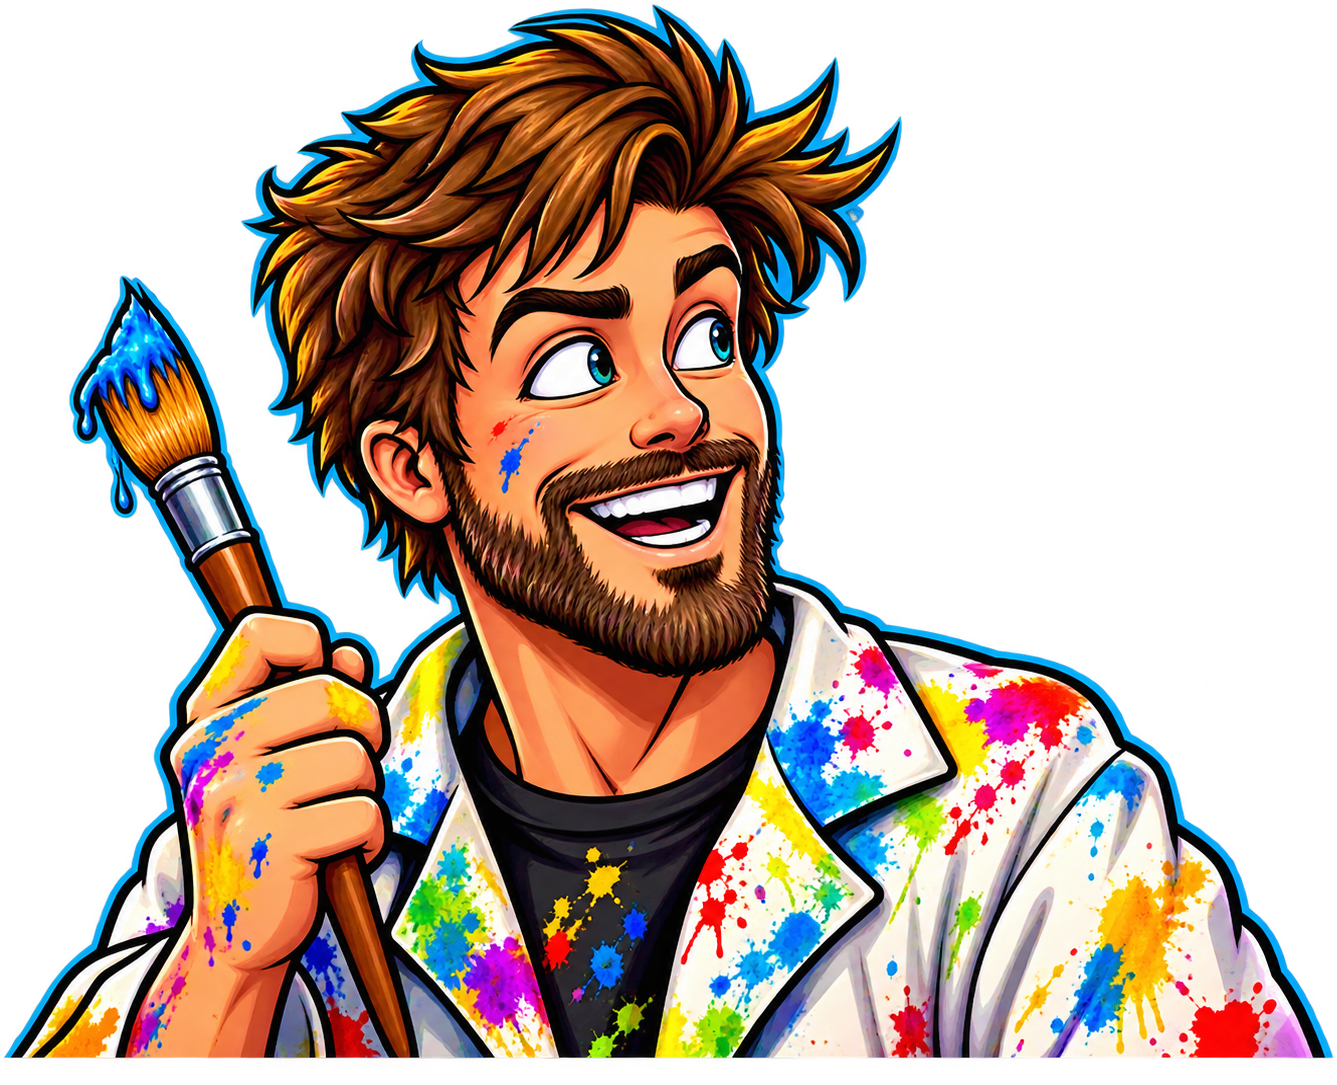
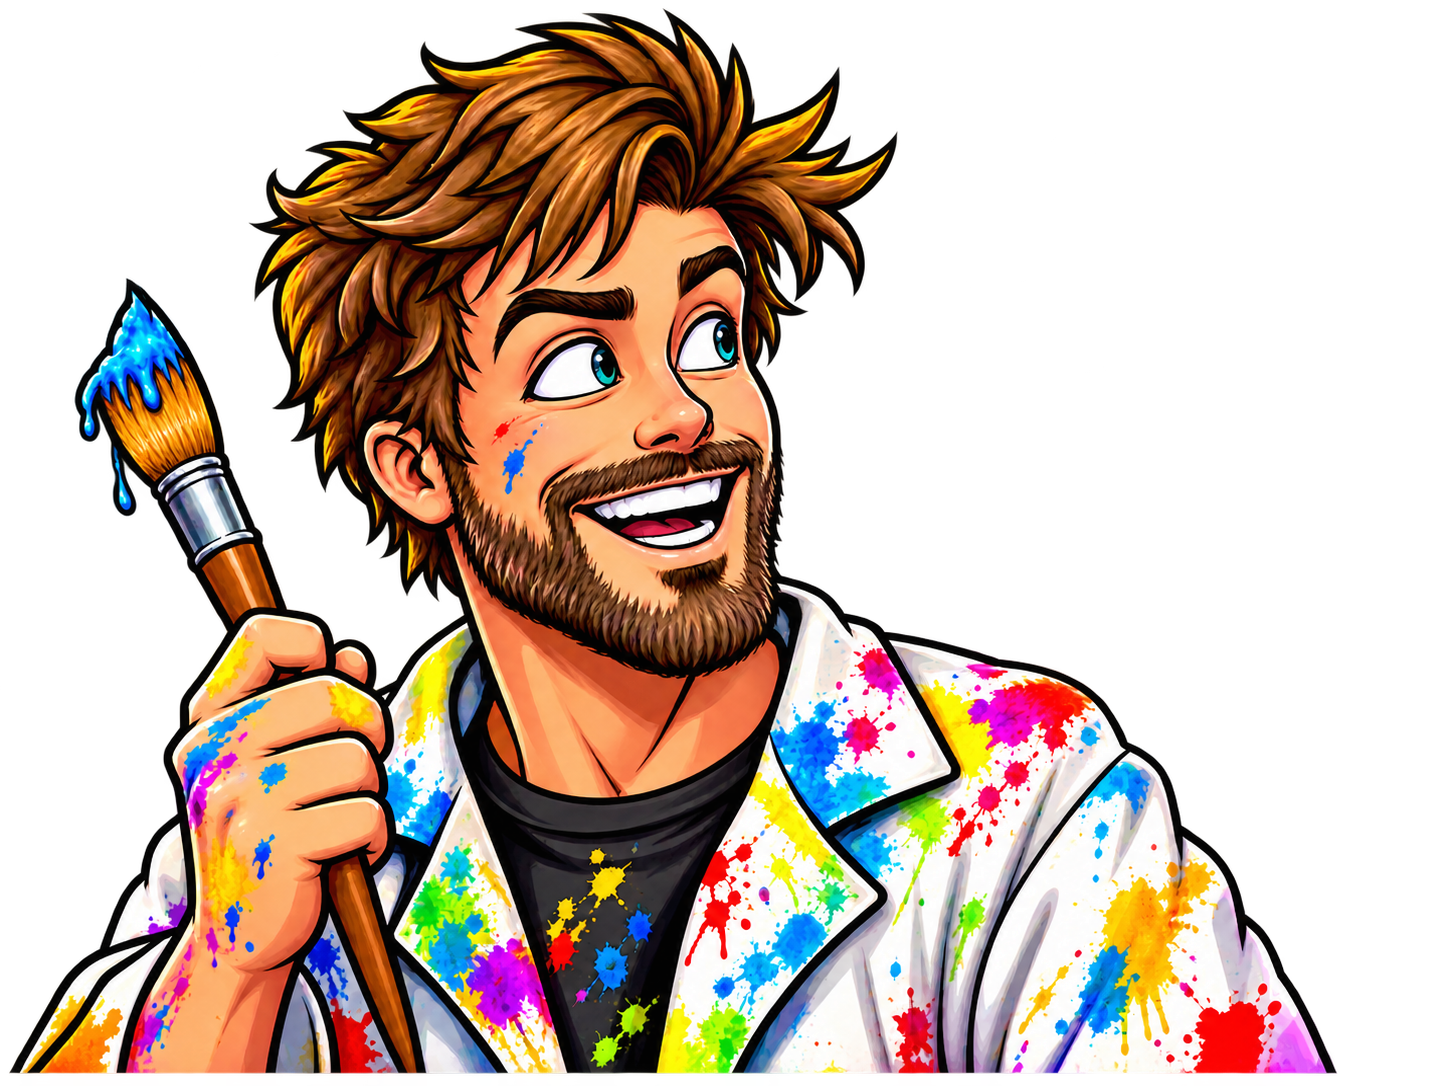
Header: new man, no outlines, same layout at every window size (both apps)
- The new man picture; neither he nor the woman gets the theme-coloured outline
- See-through rows trimmed from the pictures, so both really stand on the line under the header
- Their size and place are locked to the windowed layout and scaled up for maximized and full screen
- They re-stand on the line whenever it moves

Claude-Session: https://claude.ai/code/session_01QUUx8MLU2Dz9qb5VnMmhBk

diff --git a/Instant Easel Pro/main.py b/Instant Easel Pro/main.py
@@ -241,8 +241,8 @@ class InstantEasel(tk.Tk):
         for f, col, sticky in (("mascot-guy.png", 0, "sw"), ("mascot-girl.png", 2, "se")):          # both look in at the logo
             try:
                 im = Image.open(paths.ui("Header", f)).convert("RGBA"); import numpy as _np
-                cols = _np.flatnonzero((_np.asarray(im)[..., 3] > 40).any(0))                      # painted columns only: no see-through margin at the sides
-                if len(cols): im = im.crop((int(cols[0]), 0, int(cols[-1]) + 1, im.height))
+                box = im.getchannel("A").point(lambda v: 255 if v > 40 else 0).getbbox()            # painted area only: no see-through margin at the sides or
+                if box: im = im.crop(box)                                                          # the bottom, so the feet really touch the line
                 self.mascot_src[col] = im
                 lbl = tk.Label(self.frame, bg=top["bg"], bd=0, padx=0, pady=0, highlightthickness=0)   # placed (see _size_mascots): standing on the border below
                 self.mascot_lbl[col] = lbl
@@ -250,6 +250,7 @@ class InstantEasel(tk.Tk):
             except Exception: pass
         self.after_idle(self._size_mascots); T.on_change(lambda: self.mascot_src and self.after_idle(self._size_mascots))   # outline follows the theme colour
         self.frame.bind("<Configure>", lambda e: T.defer(self, "header", 80, self._paint_header), add="+")   # the header picture follows the window size
+        self.after_idle(lambda: self.body.bind("<Configure>", lambda e: T.defer(self, "mascots", 60, self._size_mascots), add="+"))   # the line under the header moved: stand on it again
 
         built = {"Image Scraper": ScraperPage, **LA.page_classes(), **IP.page_classes(), **WP.page_classes(), "Theme": ThemePage, "Draw": draw_studio.DrawStudio,
                  "Light": LightPage, "Color": ColorPage, "Effects": EffectsPage, "Filters": FiltersPage, "Transform": TransformPage, "History": HistoryPage, "About": AboutPage,
@@ -291,16 +292,24 @@ class InstantEasel(tk.Tk):
         if h < 40: return self.after(50, self._size_mascots)
         self._mph = {}
         mid = max(self.tabs.winfo_reqwidth(), self.top.grid_bbox(1, 0, 1, 1)[2])            # the middle column: the logo or the tab row, whichever is wider
-        room = (self.top.winfo_width() - mid) // 2 - int(round(18 * T.Z)) - 2               # the space beside the logo and tab row
+        # locked to the windowed layout: a wider window (full screen, maximized) adds width that the header picture fills, but the guy
+        # and girl keep the places they have in the window, scaled up, rather than sliding out to the new edges
+        fw, fh = fixed_window_size(self.winfo_screenwidth(), self.winfo_screenheight())
+        extra = max(0, int(self.view_cv.winfo_width() - T.Z * fw / target_zoom(fw, fh)))
+        lock_w = self.top.winfo_width() - extra; x0 = self.top.winfo_x() + extra // 2
+        room = (lock_w - mid) // 2 - int(round(18 * T.Z)) - 2                              # the space beside the logo and tab row
         for col, src in self.mascot_src.items():
             k = h / src.height
             if room > 40 and src.width * k > room: k = room / src.width                     # too wide for its space: smaller, never cut off
-            im = _outlined(src.resize((max(1, int(src.width * k)), max(1, int(src.height * k))), Image.LANCZOS), T.PALETTE["border"])
+            self._mdz = getattr(self, "_mdz", {})
+            if abs(self.winfo_width() - fw) <= 4 and abs(self.winfo_height() - fh) <= 4: self._mdz[col] = src.height * k / T.Z   # the windowed size (design pixels)...
+            elif col in self._mdz: k = min(h, self._mdz[col] * T.Z) / src.height           # ...kept, scaled, at every other window size
+            im = src.resize((max(1, int(src.width * k)), max(1, int(src.height * k))), Image.LANCZOS)
             over = int(self.frame.cget("highlightthickness")) - (body_y - im.height)   # rows that would reach the top border or above it
             if over > 0: im = im.crop((0, over, im.width, im.height))            # cut those off, so nothing shows on or above the top line
             self._mph[col] = ImageTk.PhotoImage(im); self.mascot_lbl[col].configure(image=self._mph[col], width=0, height=0)   # 0 = the picture's own size
             self._mpil = getattr(self, "_mpil", {}); self._mpil[col] = im
-            x = self.top.winfo_x() if col == 0 else self.top.winfo_x() + self.top.winfo_width() - im.width   # outer edge in line with the page's border
+            x = x0 if col == 0 else x0 + lock_w - im.width                          # outer edge where the page's border is in the windowed layout
             self.mascot_lbl[col].place(x=x, y=body_y - im.height, bordermode="outside")      # flat bottom standing on the line
         self.update_idletasks()
         if any(self.mascot_lbl[c].winfo_width() + 1 < self._mpil[c].width for c in self._mpil) and getattr(self, "_fit_tries", 0) < 2:

diff --git a/Instant Easel/main.py b/Instant Easel/main.py
@@ -228,8 +228,8 @@ class InstantEasel(tk.Tk):
         for f, col, sticky in (("mascot-guy.png", 0, "sw"), ("mascot-girl.png", 2, "se")):          # both look in at the logo
             try:
                 im = Image.open(paths.ui("Header", f)).convert("RGBA"); import numpy as _np
-                cols = _np.flatnonzero((_np.asarray(im)[..., 3] > 40).any(0))                      # painted columns only: no see-through margin at the sides
-                if len(cols): im = im.crop((int(cols[0]), 0, int(cols[-1]) + 1, im.height))
+                box = im.getchannel("A").point(lambda v: 255 if v > 40 else 0).getbbox()            # painted area only: no see-through margin at the sides or
+                if box: im = im.crop(box)                                                          # the bottom, so the feet really touch the line
                 self.mascot_src[col] = im
                 lbl = tk.Label(self.frame, bg=top["bg"], bd=0, padx=0, pady=0, highlightthickness=0)   # placed (see _size_mascots): standing on the border below
                 self.mascot_lbl[col] = lbl
@@ -237,6 +237,7 @@ class InstantEasel(tk.Tk):
             except Exception: pass
         self.after_idle(self._size_mascots); T.on_change(lambda: self.mascot_src and self.after_idle(self._size_mascots))   # outline follows the theme colour
         self.frame.bind("<Configure>", lambda e: T.defer(self, "header", 80, self._paint_header), add="+")   # the header picture follows the window size
+        self.after_idle(lambda: self.body.bind("<Configure>", lambda e: T.defer(self, "mascots", 60, self._size_mascots), add="+"))   # the line under the header moved: stand on it again
 
         built = {"Draw": draw_studio.DrawStudio, "Theme": ThemePage, "About": AboutPage, "General": SP.GeneralPage, "Display": SP.DisplayPage,
                  "Shortcuts": SP.ShortcutsPage, "Backup & Reset": SP.BackupPage}
@@ -268,16 +269,24 @@ class InstantEasel(tk.Tk):
         if h < 40: return self.after(50, self._size_mascots)
         self._mph = {}
         mid = max(self.tabs.winfo_reqwidth(), self.top.grid_bbox(1, 0, 1, 1)[2])            # the middle column: the logo or the tab row, whichever is wider
-        room = (self.top.winfo_width() - mid) // 2 - int(round(18 * T.Z)) - 2               # the space beside the logo and tab row
+        # locked to the windowed layout: a wider window (full screen, maximized) adds width that the header picture fills, but the guy
+        # and girl keep the places they have in the window, scaled up, rather than sliding out to the new edges
+        fw, fh = fixed_window_size(self.winfo_screenwidth(), self.winfo_screenheight())
+        extra = max(0, int(self.view_cv.winfo_width() - T.Z * fw / target_zoom(fw, fh)))
+        lock_w = self.top.winfo_width() - extra; x0 = self.top.winfo_x() + extra // 2
+        room = (lock_w - mid) // 2 - int(round(18 * T.Z)) - 2                              # the space beside the logo and tab row
         for col, src in self.mascot_src.items():
             k = h / src.height
             if room > 40 and src.width * k > room: k = room / src.width                     # too wide for its space: smaller, never cut off
-            im = _outlined(src.resize((max(1, int(src.width * k)), max(1, int(src.height * k))), Image.LANCZOS), T.PALETTE["border"])
+            self._mdz = getattr(self, "_mdz", {})
+            if abs(self.winfo_width() - fw) <= 4 and abs(self.winfo_height() - fh) <= 4: self._mdz[col] = src.height * k / T.Z   # the windowed size (design pixels)...
+            elif col in self._mdz: k = min(h, self._mdz[col] * T.Z) / src.height           # ...kept, scaled, at every other window size
+            im = src.resize((max(1, int(src.width * k)), max(1, int(src.height * k))), Image.LANCZOS)
             over = int(self.frame.cget("highlightthickness")) - (body_y - im.height)   # rows that would reach the top border or above it
             if over > 0: im = im.crop((0, over, im.width, im.height))            # cut those off, so nothing shows on or above the top line
             self._mph[col] = ImageTk.PhotoImage(im); self.mascot_lbl[col].configure(image=self._mph[col], width=0, height=0)   # 0 = the picture's own size
             self._mpil = getattr(self, "_mpil", {}); self._mpil[col] = im
-            x = self.top.winfo_x() if col == 0 else self.top.winfo_x() + self.top.winfo_width() - im.width   # outer edge in line with the page's border
+            x = x0 if col == 0 else x0 + lock_w - im.width                          # outer edge where the page's border is in the windowed layout
             self.mascot_lbl[col].place(x=x, y=body_y - im.height, bordermode="outside")      # flat bottom standing on the line
         self.update_idletasks()
         if any(self.mascot_lbl[c].winfo_width() + 1 < self._mpil[c].width for c in self._mpil) and getattr(self, "_fit_tries", 0) < 2:
